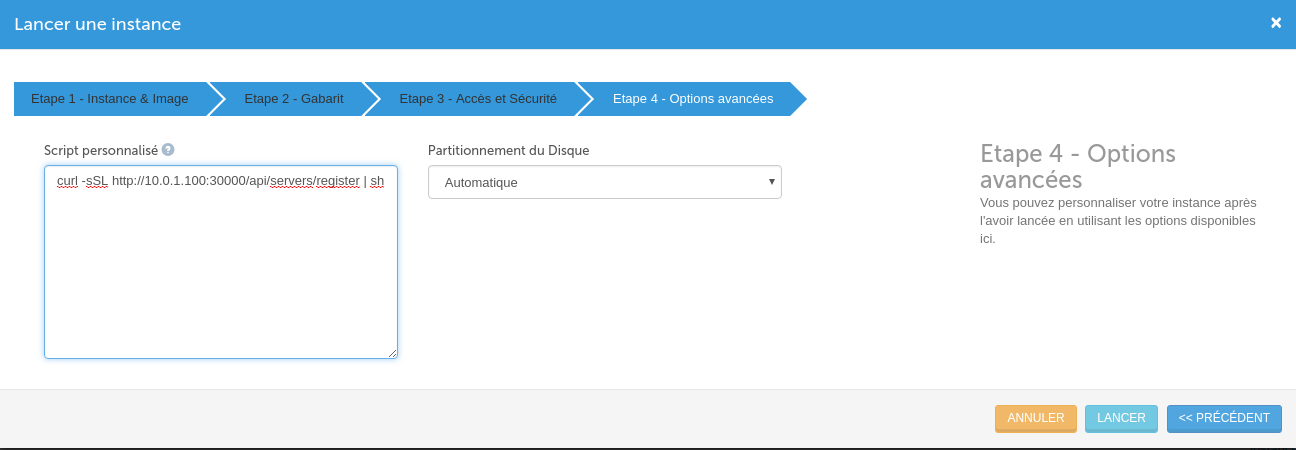
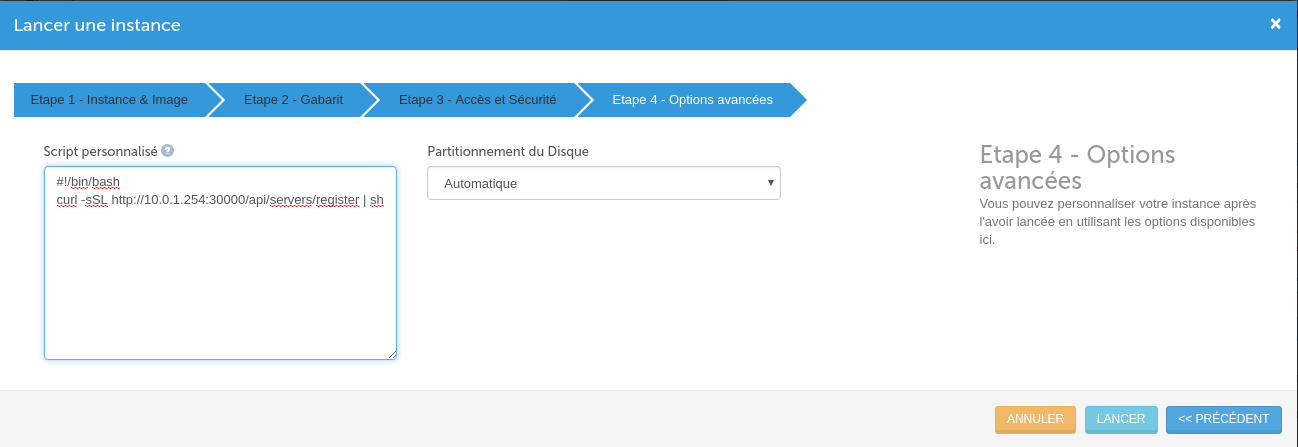
README

diff --git a/bundle-toolbox/README.md b/bundle-toolbox/README.md
@@ -197,7 +197,7 @@ Une fois le script appliqué sur l'instance choisie, elle apparait dans le menu 
 
 ![appdisable](img/appdisable.png)
 
-**Astuce :** Si vous souhaitez créer une instance via la console horizon Cloudwatt et la déclarer **directement** dans votre toolbox, il vous faut sélectionner - à l'étape 3 du wizard de lancement d'instance - le réseau de la toolbox et - à l'étape 4 - coller la commande **Curl** ou **Wget** dans le champ Script personnalisé.
+**Astuce :** Si vous souhaitez créer une instance via la console horizon Cloudwatt et la déclarer **directement** dans votre toolbox, il vous faut sélectionner - à l'étape 3 du wizard de lancement d'instance - le réseau de la toolbox et - à l'étape 4 - coller la commande **Curl** ou **Wget** dans le champ Script personnalisé. N'oubliez pas d'ajouter le shebang `#!/bin/bash`.
 
 ![attachnetwork](img/attachnetwork.png)
 

diff --git a/bundle-toolbox/README-EN.md b/bundle-toolbox/README-EN.md
@@ -187,7 +187,7 @@ Once the script is applied to the selected instance it should appear in the menu
 ![appdisable](img/appdisable.png)
 
 
-**Trick** If you want to create an instance via the console horizon Cloudwatt and declare **directly** in your toolbox, you should to select - in step 3 of the instance launch wizard - the toolbox network and - in step 4 - you can paste the **Curl** or **Wget** command in the Custom Script field .
+**Trick** If you want to create an instance via the console horizon Cloudwatt and declare **directly** in your toolbox, you should to select - in step 3 of the instance launch wizard - the toolbox network and - in step 4 - you can paste the **Curl** or **Wget** command in the Custom Script field. Don't forget to add the shebang `#!/bin/bash`.
 
 ![attachnetwork](img/attachnetwork.png)
 
